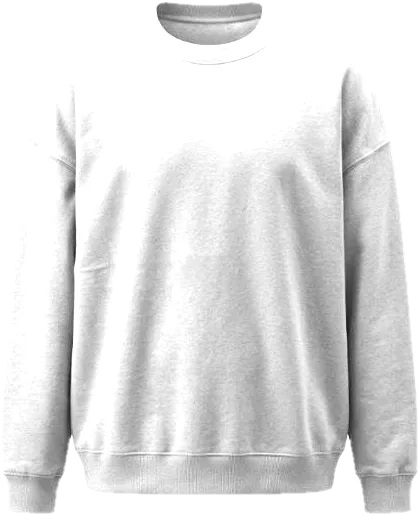
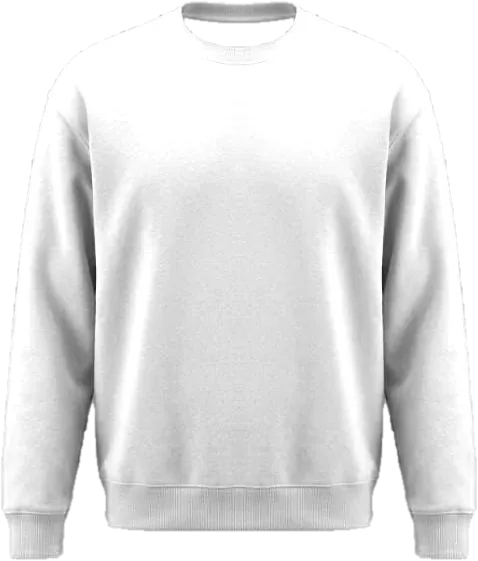
Looks two and three get their own tops: shirts, crews and sweatshirts
- the first look stays a quarter zip; the short and long looks use an oxford, a fine or
  chunky crew-neck, a boxy sweatshirt, an oversized shirt or a crinkle shirt by style
- six new long-sleeve tops generated on green with the neck opening keyed out, mirrored
- hands and arm hiding apply to every long-sleeve top; styling notes per top type

Not yet render-checked on the dummy.

Changed region(s): [[0.0, 0.1243, 0.9928, 1.0], [0.3723, 0.0, 0.6516, 0.0932], [0.7136, 0.2485, 0.7446, 0.3107]]

diff --git a/index.html b/index.html
@@ -693,28 +693,28 @@ const look = (shape, tops, pants, shoes, layers, inspo = "", skirt = null) => ({
 const STYLE_LOOKS = {
   classic: [
     look("solo", ["quarter-zip"], ["str-pant", "khakis"], ["loafer"], [], "The Manual's knit-and-tailored-trousers formula", ["midi-skirt"]),
-    look("short", ["quarter-zip-cable"], ["str-jean", "wide-pant"], ["chelsea"], ["barn"], "fall 2026's barn jacket over a chunky knit"),
-    look("long", ["quarter-zip"], ["cig-pant", "str-pant"], ["loafer"], ["overcoat", "trench"], "a long coat over slim tailoring")
+    look("short", ["oxford"], ["str-jean", "wide-pant"], ["chelsea"], ["barn"], "fall 2026's barn jacket over an oxford shirt"),
+    look("long", ["fine-knit"], ["cig-pant", "str-pant"], ["loafer"], ["overcoat", "trench"], "a long coat over a fine crew-neck and slim tailoring")
   ],
   athleisure: [
     look("solo", ["quarter-zip-fleece"], ["wide-sweat", "track-pant"], ["runner"], [], "track pants worn as a real outfit"),
-    look("short", ["quarter-zip"], ["track-pant", "wide-sweat"], ["chunky-snk"], ["crop-puffer", "shell"], "Musinsa's short outerwear"),
-    look("long", ["quarter-zip"], ["tapered-jog", "track-pant"], ["runner"], ["overcoat"], "a wool coat over track pants and runners")
+    look("short", ["boxy-sweat"], ["track-pant", "wide-sweat"], ["chunky-snk"], ["crop-puffer", "shell"], "Musinsa's short outerwear over a sweatshirt"),
+    look("long", ["fine-knit"], ["tapered-jog", "track-pant"], ["runner"], ["overcoat"], "a wool coat over a crew-neck, track pants and runners")
   ],
   minimalist: [
     look("solo", ["quarter-zip"], ["wide-pant", "pleat-wide"], ["low-snk", "loafer"], [], "one clean knit over one clean wide leg", ["midi-skirt"]),
-    look("short", ["quarter-zip"], ["wide-pant", "extra-wide-jean"], ["loafer"], ["moto", "suede"], "a cropped jacket over a wide leg"),
-    look("long", ["quarter-zip-cable"], ["cig-pant", "slim-jean"], ["chelsea"], ["overcoat"], "a long coat over a narrow trouser")
+    look("short", ["fine-knit"], ["wide-pant", "extra-wide-jean"], ["loafer"], ["moto", "suede"], "a cropped jacket and a fine crew-neck over a wide leg"),
+    look("long", ["oxford"], ["cig-pant", "slim-jean"], ["chelsea"], ["overcoat"], "a long coat over a crisp shirt and a narrow trouser")
   ],
   streetwear: [
     look("solo", ["quarter-zip-waffle"], ["extra-wide-jean", "cargo"], ["chunky-snk"], [], "Musinsa's extra-wide denim"),
-    look("short", ["quarter-zip-waffle"], ["cargo", "parachute"], ["chunky-snk"], ["crop-puffer", "moto"], "a short puffer over baggy cargos"),
-    look("long", ["quarter-zip"], ["stacked-jean", "str-jean"], ["low-snk"], ["overcoat"], "Fashion Nova's stacked denim under a long coat")
+    look("short", ["boxy-sweat"], ["cargo", "parachute"], ["chunky-snk"], ["crop-puffer", "moto"], "a short puffer and a boxy sweatshirt over baggy cargos"),
+    look("long", ["big-shirt"], ["stacked-jean", "str-jean"], ["low-snk"], ["overcoat"], "an oversized shirt and stacked denim under a long coat")
   ],
   bohemian: [
     look("solo", ["quarter-zip-cable"], ["wide-pant", "pleat-wide"], ["chelsea"], [], "a chunky knit over fluid wide trousers", ["maxi-skirt"]),
-    look("short", ["quarter-zip-waffle"], ["wide-pant", "pleat-wide"], ["loafer"], ["suede"], "chocolate suede, fall 2026's key jacket"),
-    look("long", ["quarter-zip-cable"], ["str-pant", "str-jean"], ["chelsea"], ["trench", "overcoat"], "a slouchy trench with the belt left loose", ["midi-skirt"])
+    look("short", ["crinkle-shirt"], ["wide-pant", "pleat-wide"], ["loafer"], ["suede"], "chocolate suede, fall 2026's key jacket, over a crinkle shirt"),
+    look("long", ["chunky-knit"], ["str-pant", "str-jean"], ["chelsea"], ["trench", "overcoat"], "a slouchy trench over a chunky crew-neck, belt left loose", ["midi-skirt"])
   ]
 };
 
@@ -793,7 +793,7 @@ function fitsFormula(item, ctx) {
   const topPick = ctx.chosen && ctx.chosen.find(i => i.slot === "top");
   const bottomPick = ctx.chosen && ctx.chosen.find(i => i.slot === "bottom");
   const shoes = ctx.chosen && ctx.chosen.find(i => i.slot === "shoes");
-  if (item.slot === "top") return item.color === ctx.bread && (all ? item.id.startsWith("quarter-zip") && !item.id.includes("short") : recipe.tops.includes(item.id));
+  if (item.slot === "top") return item.color === ctx.bread && (all ? looks.some(l => l.tops.includes(item.id)) : recipe.tops.includes(item.id));
   if (item.slot === "bottom") {
     const ids = ctx.anyCut ? ANY_CUT : all ? looks.flatMap(l => bottomIds(l, ctx)) : bottomIds(recipe, ctx);
     if (!ids.includes(item.id) || storyRank(story.pants, item) < 0) return false;
@@ -1316,6 +1316,9 @@ function loadShoe(name) {
 
 /* A knit hem falls over the waistband with a little shadow under it, not a hard cut. */
 const HEM_SHADOW = "drop-shadow(0 3px 3px rgba(25, 15, 40, .35))";
+/* Long-sleeve tops: the form's arms are always covered and its hands come out of the cuffs. */
+const LONG_TOPS = ["quarter-zip", "quarter-zip-waffle", "quarter-zip-cable", "quarter-zip-fleece", "oxford", "fine-knit", "chunky-knit", "boxy-sweat", "big-shirt", "crinkle-shirt"];
+const SHIRTS = ["oxford", "big-shirt", "crinkle-shirt"];
 const WAIST_JACKETS = ["suede", "moto", "crop-puffer"];
 /* The front opening of each jacket photo, traced on the image: [y, x] points, as shares
    of its height and width, down the left front edge and down the right one. Inside it
@@ -1764,7 +1767,7 @@ async function paintDummy(canvas, outfit) {
   };
   // Sleeves cover the arms: under a coat or a long-sleeve top, hide the dummy's arms
   // from shoulder to wrist so the dummy's angled arms never show past the sleeves.
-  const longSleeves = top && top.id.startsWith("quarter-zip") && !top.id.includes("short");
+  const longSleeves = top && LONG_TOPS.includes(top.id);
   if ((layer && JACKET_IDS.includes(layer.id)) || longSleeves) {
     // Hands go too here; they're put back at the cuffs once the sleeves are placed.
     const side = m.chestW * .56, armTop = m.neckY + CANVAS_H * .03, armBottom = m.crotchY + CANVAS_H * .1;
@@ -2001,9 +2004,11 @@ function stylingDetails(outfit) {
   const { top, bottom, shoes, layer, accessory } = outfit.items;
   const c = item => COLORS[item.color].label.toLowerCase();
   const notes = [];
-  notes.push(top.id.includes("short")
-    ? `Zip the ${c(top)} collar about halfway so it sits open at the neck.`
-    : `Zip the ${c(top)} collar about halfway and push the sleeves up slightly at the wrist.`);
+  notes.push(top.id.startsWith("quarter-zip")
+    ? `Zip the ${c(top)} collar about halfway and push the sleeves up slightly at the wrist.`
+    : SHIRTS.includes(top.id)
+      ? `Leave the top button of the ${c(top)} ${top.name} open and give the cuffs one roll.`
+      : `Let the ${c(top)} ${top.name} sit at the hip and push the sleeves up slightly at the wrist.`);
   const cut = bottom.id;
   if (["wide-pant", "pleat-wide", "extra-wide-jean", "wide-jean", "wide-sweat", "parachute", "cargo"].includes(cut)) notes.push(`Let the ${bottom.name} fall straight and skim the top of the shoe, with no cuff.`);
   else if (cut === "stacked-jean") notes.push("Let the extra length stack in soft folds just above the shoe.");
